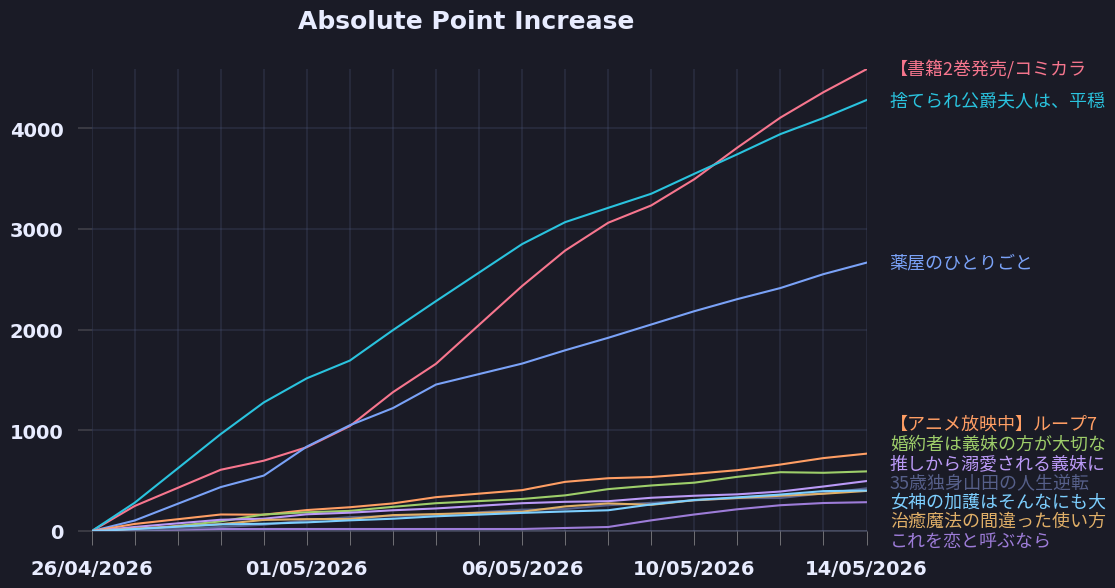
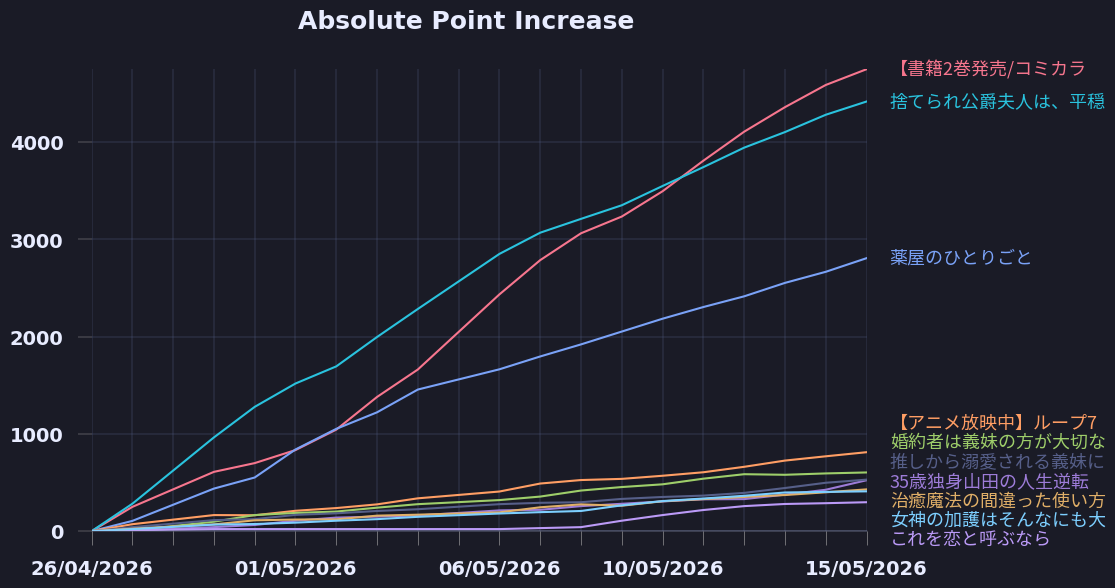
update plots

diff --git a/README.md b/README.md
@@ -13,8 +13,8 @@
 3. [薬屋のひとりごと](https://ncode.syosetu.com/n9636x/)
 4. [【アニメ放映中】ループ7回目の悪役令嬢は、元敵国で自由気ままな花嫁生活を満喫する](https://ncode.syosetu.com/n1784ga/)
 5. [婚約者は義妹の方が大切なので、ふたりが結婚できるようにしてあげようと思います](https://ncode.syosetu.com/n8269hq/)
-6. [これを恋と呼ぶなら](https://ncode.syosetu.com/n4785io/)
-7. [推しから溺愛される義妹に転生しました](https://ncode.syosetu.com/n5287io/)
-8. [35歳独身山田の人生逆転魔法　～現代社会に疲れた俺は異世界でスローライフを楽しむために現代で悪魔と戦って金儲けをしながら異世界村を発展させることにしました～](https://ncode.syosetu.com/n3115io/)
+6. [35歳独身山田の人生逆転魔法　～現代社会に疲れた俺は異世界でスローライフを楽しむために現代で悪魔と戦って金儲けをしながら異世界村を発展させることにしました～](https://ncode.syosetu.com/n3115io/)
+7. [これを恋と呼ぶなら](https://ncode.syosetu.com/n4785io/)
+8. [推しから溺愛される義妹に転生しました](https://ncode.syosetu.com/n5287io/)
 9. [治癒魔法の間違った使い方～戦場を駆ける回復要員～](https://ncode.syosetu.com/n2468ca/)
 10. [女神の加護はそんなにも大事ですか？](https://ncode.syosetu.com/n3888io/)